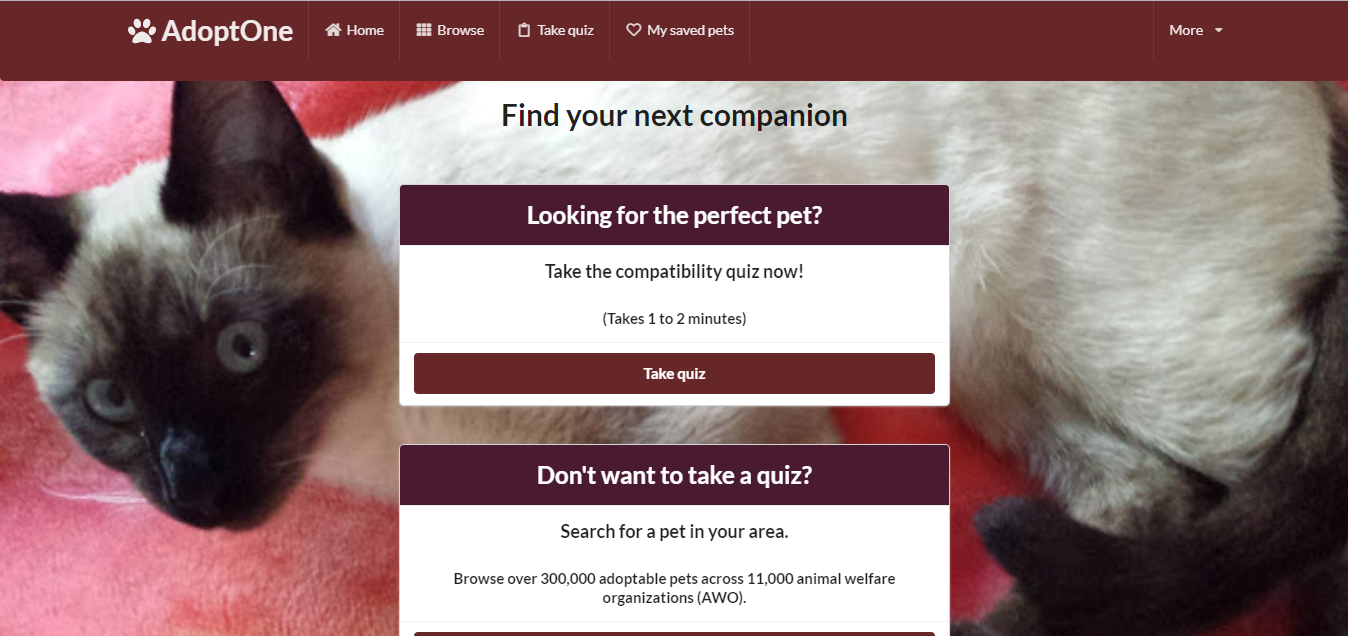
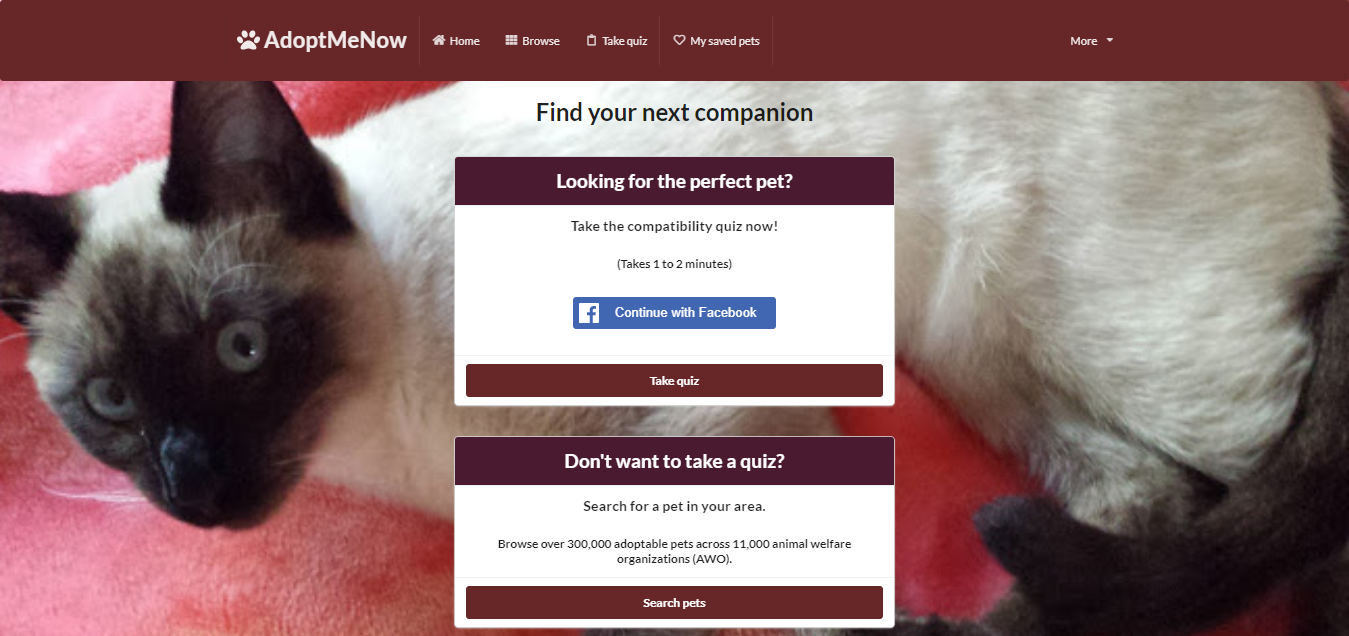
readme updated

diff --git a/README.md b/README.md
@@ -1,26 +1,47 @@
 # AdoptMeNow
-<p>AdoptMeNow is a full stack, MVC (Model-View-Controller) application that connects people with animal welfare organizations (AWO) in their area to help streamline and simplify the pet adoption process. With this application, you can do the following:</p>
+<p>AdoptMeNow is a full stack, MVC (Model-View-Controller) application that connects people with animal welfare organizations (AWO) in their area and helps streamline and simplify the pet adoption process. With this application, you can do the following:</p>
 <ul>
-	<li>Take a compatibility assessment to receive suggested pets that reflect your personality, preferences, and interests.</li>
+	<li>Take a compatibility assessment and receive suggested pets that reflect your personality, preferences, and interests.</li>
 	<li>Save your assessment results.</li>
-	<li>Search for adoptable pets at animal shelters in your area. You can search by breed, type, gender, and age.</li>
-	<li>Add the pets that you like and might consider adopting to a favorites list, which allows you to quickly look those up later.</li>
+	<li>Search for adoptable pets at animal shelters in your area based on your assessment results. You can search by breed, type, gender, and age.</li>
+	<li>Add the pets that you might consider adopting to a favorites list, which allows you to quickly look up those pets and their contact information later</li>
 
 ## Table of contents
   * [Live](#live)
+  * [Screenshots](#screenshots)
   * [About this project](#about-this-project)
   * [Contributors](#contributors)
   * [Getting started](#getting-started)
   * [Structure of the project](#structure-of-project)
-  * [Screenshots](#screenshots)
   * [Technologies used to create app](#technologies-used)
   	* [Backend technologies](#Backend)
   	* [Frontend technologies](#Frontend)
+    * [About the Petfinder API](#petfinder)
   * [Design improvements](#design-improvements)
   * [Issues](#Issues)
 
 ## <a name="live"></a>Live
 https://pet-match-app.herokuapp.com/
+
+## <a name="screenshots"></a> Screenshots
+
+### Home page
+<img src="readme_images/home.png">
+
+### Pet compatibility assessment
+<img src="readme_images/pet_assessment.png">
+<br>
+<br>
+<img src="readme_images/pet_question.png">
+<br>
+<br>
+<img src="readme_images/assessment_results.png">
+
+### Pet search page
+<img src="readme_images/pet_search.png">
+
+### My saved pets page
+<img src="readme_images/liked_pets.png">
 
 ## <a name="about-this-project"></a> About this project
 
@@ -29,14 +50,14 @@ https://pet-match-app.herokuapp.com/
   * [MVC design pattern](#about-mvc)
  
 ### <a name="how-app-works"></a> How the app works
-This project is a full stack application that helps simplify the pet adoption process. The application is meant to help connect you with animal shelters and rescue organizations in your area. 
+This project is a full stack application that helps simplify the pet adoption process. The application is meant to help connect you with animal shelters and pet rescue organizations in your area. 
 
-After you log in to the app, you are taken to the home screen. When you get to the home screen of the app, you have two options. You can take a compatibility assessment, which takes you through some questions and matches you with a pet based on your personality, preferences, and interests. After you take the quiz, you will get your results back, and you can use those results and the pet search feature to search for matching pets in your area. At the end of the quiz, you also have the option to save your results to view later, which saves them to the <b>My saved pets</b> page as well as to the MySQL database. 
+When you first start using the app, you will be taken to the home screen. When you get to the home screen of the app, you have two options. You can log in to the app using Facebook and take a compatibility assessment, which takes you through a series of questions and matches you with a pet based on your personality, preferences, and interests. After you take the quiz, you will get your results back, and you can use those results and the pet search feature to search for matching pets in your area. At the end of the quiz, you also have the option to save your results to view later, which saves them to the <b>My saved pets</b> page as well as to the MySQL database. 
 
-If you don't want to take an assessment, you can skip the quiz and go straight to the pet search page to search. When you are searching for pets, you can refine the search by gender, age, breed, and pet type. When you perform a search, the search results return the name, age, shelter ID, shelter contact information, and a short description about each pet. Also, you will notice that each pet has a <b>Like</b> button associated with it. If you like a pet that you see, click <b>Like</b> next to that pet. Liking a pet adds that pet's name and the shelter contact information to the database and to the <b>My saved pets</b> page. The <b>My saved pets</b> page contains both the assessment results (if you chose to save the results at the end of the assessment) and a list of liked pets. If you decide that you are no longer interested in a pet that you liked, you can remove the pet by clicking <b>Remove from list</b>, which deletes the pet from the user interface as well as from the MySQL database.
+If you don't want to take an assessment, you can skip the quiz and go straight to the pet search page to search. When you are searching for pets, you can refine the search by searching on gender, age, breed, and pet type. When you perform a search, the search results return the name, age, shelter ID, shelter contact information, and a short description about each pet. Also, you will notice that each pet has a <b>Like</b> button associated with it. If you find a pet that you might want to adopt, click <b>Like</b> next to that pet. Liking a pet adds that pet's name and the shelter contact information to the database and to the <b>My saved pets</b> page. The <b>My saved pets</b> page contains both the assessment results (if you chose to save the results at the end of the assessment) and a list of liked pets. If you decide that you are no longer interested in a pet that you liked, you can remove the pet by clicking <b>Remove from list</b>, which deletes the pet from the user interface as well as from the MySQL database.
 
 ### <a name="how-the-app-is-built"></a> How the app is built
-This project uses MySQL, Node.js, Express, Handlebars, Sequelize, and Semantic UI. Node and MySQL are used to query and route data in the application. Express is the backend web framework used for this application, and Handlebars is a templating language that is used to generate the HTML. Semantic UI is a CSS framework that is used to design and build the front end part of the site.
+This project uses MySQL, Node.js, Express, Handlebars, Sequelize, and Semantic UI. Node and MySQL are used to query and route data in the application. Express is the backend web framework used for this application, and Handlebars is a templating language that is used to generate the HTML. Semantic UI is a CSS framework that is used to design and build the front end part of the site. Sequelize is an ORM (Object Relational Mapper), which helps in managing database queries in an effective manner.
 
 ### <a name="about-mvc"></a> MVC design pattern
 This project also follows the MVC (Model-View-Controller) design pattern. The MVC design pattern assigns objects in the application one of three roles (model, view, or controller) and defines the way the different parts of the application communicate with one another.
@@ -55,10 +76,10 @@ For more information about the MVC design pattern, check out the following resou
   * https://docs.microsoft.com/en-us/aspnet/core/mvc/overview
 
 ## <a name="contributors"></a> Contributors
-* Front End Developer/Project Manager: Phil Stubbs
-* Front End Developer: Joy Hollela
 * Back End Developer: Amin Kedir
 * Back End Developer: Robin Bertuccelli 
+* Front End Developer: Joy Hollela
+* Front End Developer/Project Manager: Phil Stubbs
 
 ## <a name="getting-started"></a> Getting started
 The following section will take you through the steps of setting up this application and getting it running locally on your computer.
@@ -71,7 +92,6 @@ To set up this application locally on your computer, perform the following steps
 3. [Install the dependencies](#dependencies)
 4. [Install MySQL Workbench](#install-mysql)
 5. [Set up a development database](#database-setup)
-6. [Create a .env file to store your MySQL Password](#create-env)
 7. [Verify database connection information](#db-connect)
 8. [Start the server](#start-server)
 
@@ -97,10 +117,10 @@ The first step is to clone the project repository to a local directory on your c
          	<li>Allows the app to serve static content from the public directory.</li>
     	</ul>
   <li>
-    <p><b>public</b>: Contains the static content (images, Javascript, and CSS). </p>
+    <p><b>public</b>: Contains the static, front end content (images, Javascript, and CSS). </p>
     <ul>
       <li><b>assets/css/style.css</b>: External CSS stylesheet.</li>
-      <li><b>assets/img</b>: Contains the background image used in the application.</li>
+      <li><b>assets/img</b>: Contains the background image used in the app.</li>
       <li><b>assets/src/modals</b>: Contains the front end Javascript that opens the modals in the application.</li
 	  <li><b>assets/src/petDelete</b>: Contains the front end Javascript used to delete a liked pet from the <b>My saved pets</b> page as well as delete the compatibility assessment results.</li>
 	  <li><b>assets/src/petSearch</b>: Contains the front end Javascript that allows a user to search for a pet. When a user fills outs the pet search form, a query is made to the Petfinder API based on the user input from the search form. The matching pets are returned from the API and displayed to the user in the application user interface.</li>
@@ -110,8 +130,13 @@ The first step is to clone the project repository to a local directory on your c
   <li>
     <p><b>models</b>: Contains information used to manage the application data and interact with the database. The models describe the structure of the database tables, and the datatypes that each column of the table can contain. For this project, the database includes two models:</p>
 	<ul>
-		<li><b>match.js</b>: This defines the sequelize model for saving users' assessment results to the MySQL database. The model defines a database table that has two columns (one for the assessent results and one for the match rating).</li>
-		<li><b>pets.js</b>: This defines the sequelize model for saving any pets that the user likes to the MySQL database. The model defines a database table that includes columns for pet name, pet shelter location, shelter contact information, and whether or not the user likes the pet.</li>
+		<li><p><b>match.js</b>: This defines the sequelize model for saving users' assessment results to the MySQL database. The model defines a database table that has two columns (one for the assessent results and one for the match rating).</p>
+    <img src="readme_images/match_model.png">
+    </li>
+
+		<li><p><b>pets.js</b>: This defines the sequelize model for saving any pets that the user likes to the MySQL database. The model defines a database table that includes columns for pet name, pet shelter location, shelter contact information, and whether or not the user likes the pet.</p>
+    <img src="readme_images/pet_model.png">
+    </li>
   </li>
   <li>
     <p><b>db/schema.sql</b>: Contains code that you can run to create and set up a MySQL database locally on you computer.</li>
@@ -131,6 +156,7 @@ The first step is to clone the project repository to a local directory on your c
   <li><b>package.json</b>: Lists the project dependencies (third party npm packages) and their version numbers.</li>
   <li><b>.gitignore</b>: Anything listed inside this file will not be tracked by GitHub when code is committed.</li>
   <li><b>package-lock.json</b>: Dependency tree for the project. Lists all the dependencies and their versions.</li>
+  <li><b>data/animal.js</b>: This file includes an array of objects, which is where the pet compatibility data is stored.</li>
 </ul>
 
 ### <a name="install-node"></a> 2. Install Node.js
@@ -143,9 +169,10 @@ The first step is to clone the project repository to a local directory on your c
 <ul>
 	<li><b>express</b> -  a Node.js web application framework (https://www.npmjs.com/package/express).</li>
 	<li><b>body-parser</b> - used to parse incoming request bodies in a middleware. (https://www.npmjs.com/package/body-parser)</li>
-	<li><b>dotenv</b> - used to retrieve the MySQL password from a .env file (https://www.npmjs.com/package/dotenv).</li>
-  <li><b>mysql</b> - used to create a connection to the MySQL database via the command line.(https://www.npmjs.com/package/mysql)</li>
-  <li><b>express-handlebars</b> - allows you to use handlebars to create templates to build the HTML.</li>(https://www.npmjs.com/package/express-handlebars)</li>
+	<li><b>dotenv</b> - used to retrieve the Petfinder API key from a .env file (https://www.npmjs.com/package/dotenv).</li>
+  <li><b>mysql2</b> - used to create a connection to the MySQL database via the command line.(https://www.npmjs.com/package/mysql)</li>
+  <li><b>express-handlebars</b> and <b>handlebars</b> - allows you to use handlebars to create templates to build the HTML.(https://www.npmjs.com/package/express-handlebars)</li>
+  <li><b>sequelize</b> - sequelize is used as the project's ORM to manage and simplify queries to the MySQL database.</li>
 </ul>
 
 <p>Version information for each of these packages is available in the <b>package.json</b> file in the project root directory.</p>
@@ -167,20 +194,6 @@ To set up a development database that you can use with this application, perform
 </li>
 </ol>
 
-### <a name="create-env">6. Create a .env file to store your MySQL Password</a>
-<p>If you set up MySQL to use a password to connect to your database, you need to provide your own <b>.env</b> file.
-If you did not set up MySQL with a password, you can skip this step.</p>
-
-<p>Create a file named <b>.env</b> in the project root directory (burger) with the following contents. Replace <i>mysql_password</i> with your actual MySQL password.</p>
-
-<pre>
-# MySQL Password
-
-MYSQL_PASSWORD='<i>mysql_password</i>'
-</pre>
-
-<p>This file will be used by the dotenv npm package, which will pass the password value as an environment variable to the global process.env object in node. Because <b>.env</b> is specified in the .gitignore file, the password is kept private.</p>
-
 ### <a name="db-connect">7. Verify database connection information</a>
 <p>Open the <b>config/config.json</b> file and verify that the database connection information (host, username, password, and database) in the development section reflects the database you just created.</p>
 <p>Modify the connection properties as needed to reflect your database instance.</p>
@@ -197,35 +210,13 @@ MYSQL_PASSWORD='<i>mysql_password</i>'
 </pre>
 
 ### <a name="start-server">8. Start the server</a>
-<p>After performing all of the setup steps in the <b>Getting started</b> section, navigate to the project root directory (Pet Match) and run the following command to start the server:</p>
+<p>After performing all of the setup steps in the <b>Getting started</b> section, navigate to the project root directory (PetMatch) and run the following command to start the server:</p>
 <pre>
 nodemon server.js
 </pre>
 <p>If  you don't have nodemon installed on your computer, you can also start the server by running the following command. However, every time you make a change to the server, you will need to restart the server to view the change in the user interface.</p>
 <pre>node server.js</pre>
 <p>To verify that the server has started and the application is working locally on your computer, open Chrome and go to <a href="http://localhost:3000">http://localhost:3000</a>.</p>
-
-## <a name="screenshots"></a> Screenshots
-
-### Authentication page
-<img src="readme_images/login.png">
-
-### Home page
-<img src="readme_images/home.png">
-
-### Pet compatibility assessment
-<img src="readme_images/pet_assessment.png">
-<br>
-<br>
-<img src="readme_images/pet_question.png">
-<br>
-<br>
-
-### Pet search page
-<img src="readme_images/pet_search.png">
-
-### My saved pets page
-<img src="readme_images/liked_pets.png">
 
 ## <a name="technologies-used"></a> Technologies used to build app
 * [Backend technologies](#Backend)
@@ -237,7 +228,7 @@ nodemon server.js
 * Express (http://expressjs.com/)
 * Sequelize ORM (http://docs.sequelizejs.com/)
 * Javascript
-* Facebook authentication
+* Facebook authentication (https://developers.facebook.com/docs/facebook-login/web)
 
 ### <a name="Frontend"></a> Frontend technologies
 * HTML
@@ -247,10 +238,22 @@ nodemon server.js
 * jQuery (https://jquery.com/)
 * Handlebars (http://handlebarsjs.com/)
 
+### <a name="petfinder"></a> About the Petfinder API
+The Petfinder API gives developers access to Petfinder's database of over 300,000 adoptable pets and 11,000 animal welfare organizations (AWO). 
+
+To learn more about this API and the various API methods available, see the API documentation.
+* https://www.petfinder.com/developers/api-docs
+* https://github.com/helenuria/Petfinder-API
+
+Petfinder requires developers to use a key to access the API data. To use the Petfinder API, you'll also need a (free) Petfinder developer account.
+
+After you have a key, you can use the API to search for adoptable pets in your area.
+
 
 ## <a name="design-improvements"></a> Design improvements
 * Add feature that allows users to directly send an email to the shelter where the pet is located.
 * Do more research. Go to an animal shelter and find out more about the pet adoption process. Take ideas and suggestions from research to improve and streamline the app.
+* Integrate app more with Facebook authentication. For example, grab information from user's profile to find pet suggestions.
 
 
 ## <a name ="Issues"></a> Issues
